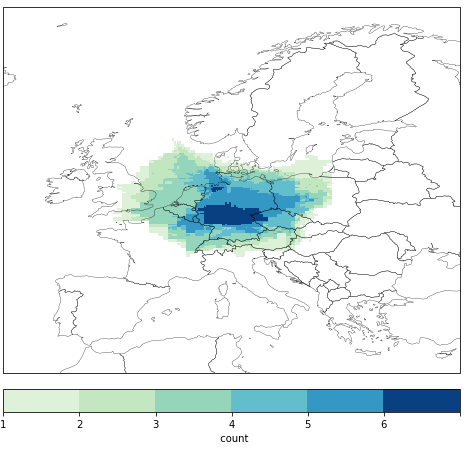
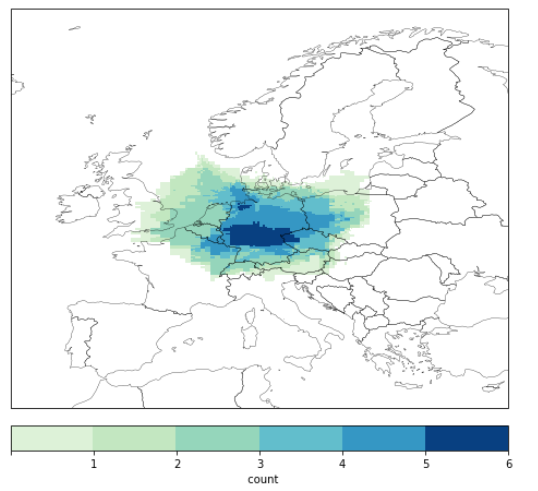
updated tick labels network characterizatio + updated visualizations (ticks) for introduction + update button disabled

diff --git a/notebooks/icos_jupyter_notebooks/network_characterization/network_characterization_functions.py b/notebooks/icos_jupyter_notebooks/network_characterization/network_characterization_functions.py
@@ -166,8 +166,7 @@ def plot_maps(field, lon, lat, title='', label='', unit='', linlog='linear', sta
             ticks = [*range(1, (vmax+2), 1)]
 
             ticklabels = ticks[:-1]
-            
-            ticklabels.append(' ')
+            ticklabels.insert(0, ' ')
 
         else:
 
@@ -175,16 +174,11 @@ def plot_maps(field, lon, lat, title='', label='', unit='', linlog='linear', sta
             ticks = [*range(1, (np.max(field[:,:])+2),1)]
 
             ticklabels = ticks[:-1]
-            
-            ticklabels.append(' ')
+            ticklabels.insert(0, ' ')
 
         if percent:
 
             ticks = [10,20,30,40,50,60,70,80,90,100]
-
-            #ticklabels = ticks[:-1]
-            
-            #ticklabels.append(' ')
             
             ticklabels = [' ', 10, 20, 30, 40, 50, 60, 70, 80, 90]
             

diff --git a/notebooks/icos_jupyter_notebooks/network_characterization/gui_percent_aggregate_footprints.py b/notebooks/icos_jupyter_notebooks/network_characterization/gui_percent_aggregate_footprints.py
@@ -116,6 +116,7 @@ def change_month_end(c):
 
 def update_func(button_c):
 
+    update_button.disabled = True
     now = datetime.now()
     date_time = now.strftime("%Y%m%d_%H%M%S")
     #add options:
@@ -164,7 +165,7 @@ def update_func(button_c):
 
     #functions.plot_maps(footprint_0_90_total_potential, load_lon, load_lat, colors='Blues', vmin=10, vmax=90, percent = True, unit='%', title=map_title2, pngfile=pngfile2, date_time_predefined=date_time)
 
-
+    update_button.disabled = False
 style_bin = {'description_width': 'initial'}
 
 header_station = Output()
